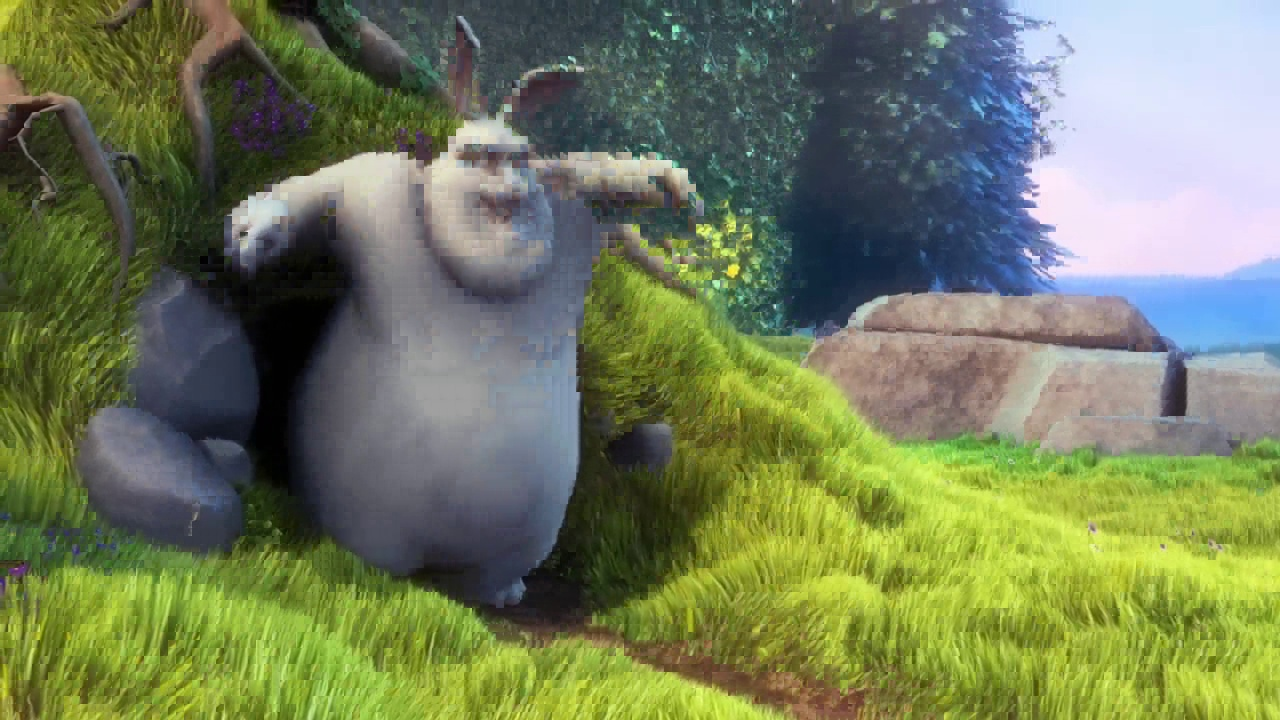
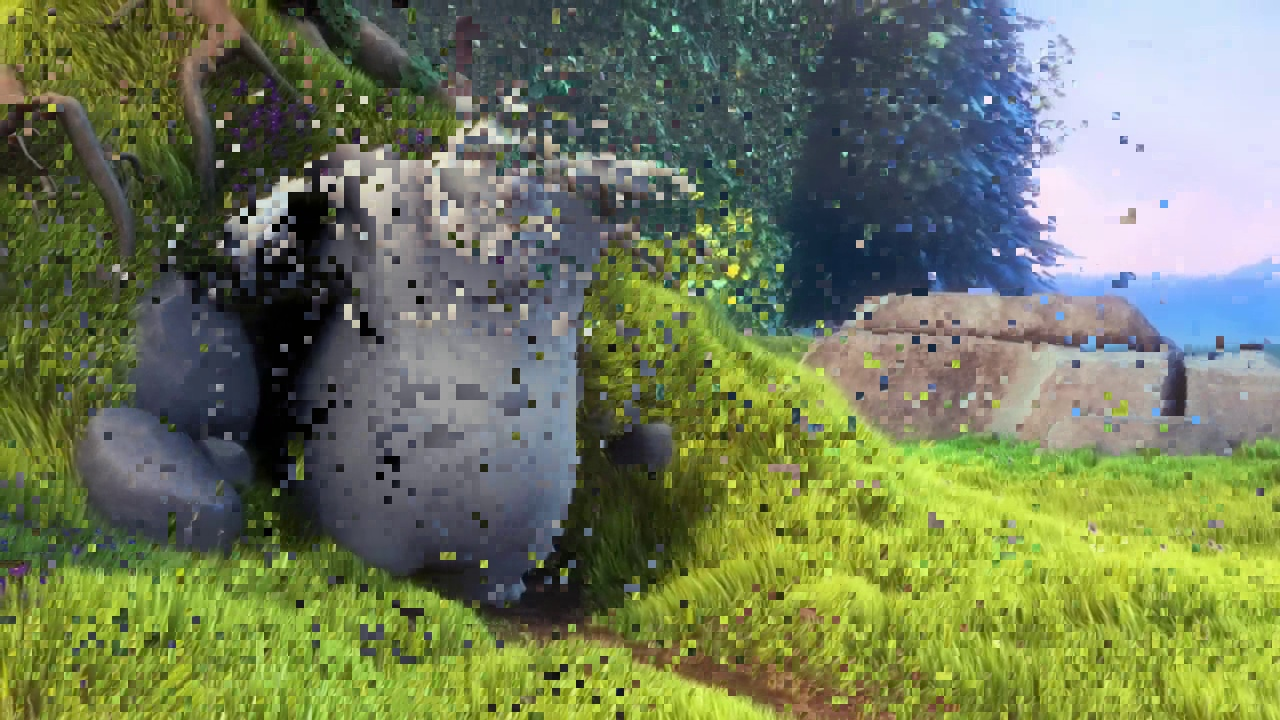
hw3 v2

diff --git a/hw3/3.py b/hw3/3.py
@@ -43,20 +43,51 @@ def fullSearch(tar, ref, rowIndex, colIndex, searchRange):
     return np.array(best)
 
 def logSearch(tar, ref, rowIndex, colIndex, searchRange):
+    # step 1. initialize
+    center = (0, 0)
     best = None
     minSAD = np.inf
     step = searchRange // 2
-    while step > 0:
-        for i in range(-searchRange, searchRange + 1, step):
-            for j in range(-searchRange, searchRange + 1, step):
-                if rowIndex + i >= 0 and rowIndex + i < ref.shape[0] and colIndex + j >= 0 and colIndex + j < ref.shape[1]:
-                    nowSAD = calSAD(ref[rowIndex + i, colIndex + j], tar[rowIndex, colIndex])
-                    if nowSAD < minSAD:
-                        minSAD = nowSAD
-                        best = (i, j)
-        searchRange = step
+    M = []
+    updateM = True
+
+    while step >= 1:
+        # step 2. M(n)
+        if updateM:
+            M = [(0, 0), (step, 0), (0, step), (-step, 0), (0, -step)]
+            updateM = False
+
+        # step 3. find minimum
+        for (i, j) in M:
+            if 0 <= rowIndex + center[0] + i < ref.shape[0] and 0 <= colIndex + center[1] + j < ref.shape[1]:
+                nowSAD = calSAD(ref[rowIndex + center[0] + i, colIndex + center[1] + j], tar[rowIndex, colIndex])
+                if nowSAD < minSAD:
+                    minSAD = nowSAD
+                    best = (i, j)
+
+        # step 4. q <- q + i, l <- l + j, M <- M - (-i, -j), go to step 3
+        if best[0] != 0 or best[1] != 0:
+            print(best[0], best[1])
+            center = (center[0] + best[0], center[1] + best[1])
+            M = [(m[0] + best[0], m[1] + best[1]) for m in M]
+            continue
+
+        # step 5. n <- n / 2
         step //= 2
-    return np.array(best)
+        updateM = True
+        print('---------------- step size: ', step)
+
+    # step 6. find minimum in N(1)
+    for i in [-step, 0, step]:
+        for j in [-step, 0, step]:
+            if 0 <= rowIndex + center[0] + i < ref.shape[0] and 0 <= colIndex + center[1] + j < ref.shape[1]:
+                nowSAD = calSAD(ref[rowIndex + center[0] + i, colIndex + center[1] + j], tar[rowIndex, colIndex])
+                if nowSAD < minSAD:
+                    minSAD = nowSAD
+                    best = (i, j)
+    center = (center[0] + best[0], center[1] + best[1])
+
+    return np.array(center)
 
 def calMotionVector(ref, tar, searchRange, searchMethod):
     # shape of macroblocks
@@ -89,20 +120,31 @@ def PSNR(image1, image2):
 
 if __name__ == '__main__':
     # get input
-    imageRef = cv2.imread('img/40.jpg')
-    imageTar = cv2.imread('img/42.jpg')
+    image40 = cv2.imread('img/40.jpg')
+    image42 = cv2.imread('img/42.jpg')
+    image51 = cv2.imread('img/51.jpg')
     # convert BGR to RGB
-    imageRef = imageRef[:,:,::-1]
-    imageTar = imageTar[:,:,::-1]
+    image40 = image40[:,:,::-1]
+    image42 = image42[:,:,::-1]
+    image51 = image51[:,:,::-1]
 
-    d = {'full': fullSearch, '2d': logSearch}
-
+    # part 1
+    # d = {'full': fullSearch, '2d': logSearch}
+    d = {'2d': logSearch}
     for blockSize in [8, 16]:
-        mbRef = macroblockDivide(imageRef, blockSize)
-        mbTar = macroblockDivide(imageTar, blockSize)
+        mbRef = macroblockDivide(image40, blockSize)
+        mbTar = macroblockDivide(image42, blockSize)
         for searchMethod in d.keys():
             for searchRange in [8, 16]:
                 mv = calMotionVector(mbRef, mbTar, searchRange, d[searchMethod])
-                imagePdt = predict(imageRef, mv, blockSize)
+                imagePdt = predict(image40, mv, blockSize)
                 saveImage(imagePdt[:,:,::-1], f'{searchMethod}_predicted_r{searchRange}_b{blockSize}.jpg')
-                print('{}_r{}_b{} -- SAD: {}, PSNR: {:2.4f}'.format(searchMethod, searchRange, blockSize, calSAD(imageTar, imagePdt), PSNR(imageTar, imagePdt)))
+                print('{}_r{}_b{} -- SAD: {}, PSNR: {:2.4f}'.format(searchMethod, searchRange, blockSize, calSAD(image42, imagePdt), PSNR(image42, imagePdt)))
+
+    # part 2
+    mbRef = macroblockDivide(image40, 8)
+    mbTar = macroblockDivide(image51, 8)
+    mv = calMotionVector(mbRef, mbTar, 8, logSearch)
+    imagePdt = predict(image40, mv, 8)
+    saveImage(imagePdt[:,:,::-1], f'40to51.jpg')
+    print('40 to 51 -- SAD: {}, PSNR: {:2.4f}'.format(calSAD(image51, imagePdt), PSNR(image51, imagePdt)))
